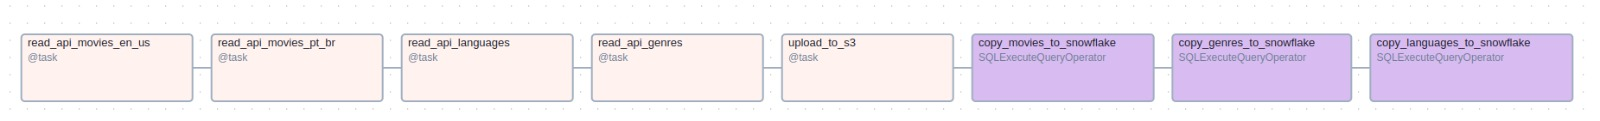
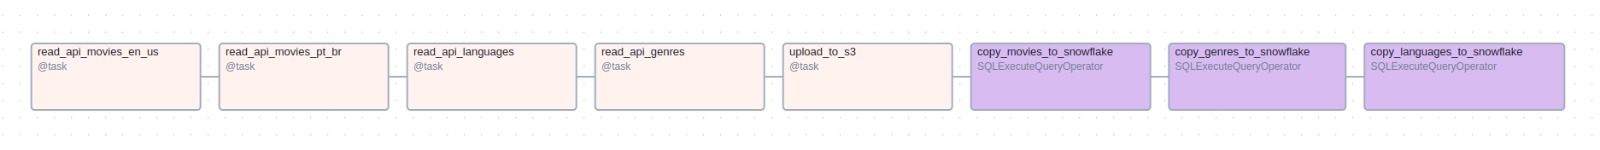
Updating images

Changed region(s): [[0.0, 0.2727, 1.0, 0.843], [0.5938, 0.595, 0.625, 0.6198]]

diff --git a/README.md b/README.md
@@ -1,6 +1,6 @@
 [![Terraform CI](https://github.com/marcelo-martins/api_consumption_data_enginnering/actions/workflows/terraform_test.yml/badge.svg)](https://github.com/marcelo-martins/api_consumption_data_enginnering/actions/workflows/terraform_test.yml) [![DBT CI](https://github.com/marcelo-martins/api_consumption_data_enginnering/actions/workflows/dbt_test.yml/badge.svg)](https://github.com/marcelo-martins/api_consumption_data_enginnering/actions/workflows/dbt_test.yml)
 
-# 🎬 TMDB API Data Pipeline
+## 🎬 TMDB API Data Pipeline
 
 This project deliberately **over-engineers** a modern data pipeline that extracts, loads, and transforms data from the TMDB API into Snowflake. It leverages tools such as Terraform, S3, Apache Airflow, dbt, Metabase, Docker, and GitHub Actions to simulate a full production-like workflow.
 ---
@@ -15,7 +15,7 @@ This project deliberately **over-engineers** a modern data pipeline that extract
 - **Visualization**: Metabase connects to Snowflake for dashboarding
 
 <p align="center">
-  <img src="assets/images/dbt_snowflake.drawio.png" alt="Architecture Diagram" width="1000"/>
+  <img src="assets/images/dbt_snowflake.drawio.png" alt="Architecture Diagram" width="1200"/>
 </p>
 
 ---
@@ -74,7 +74,7 @@ Two DAGs orchestrate the flow:
 - Immediately loads them into Snowflake using `SQLExecuteQueryOperator`
 
 <p align="center">
-  <img src="assets/images/api_consumption_dag.jpeg" alt="API DAG" width="600"/>
+  <img src="assets/images/api_consumption_dag.jpeg" alt="API DAG" width="1200"/>
 </p>
 
 ---
